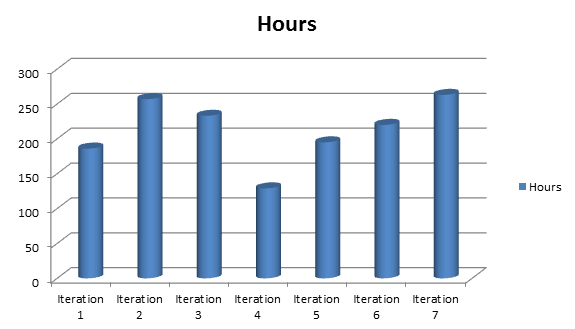
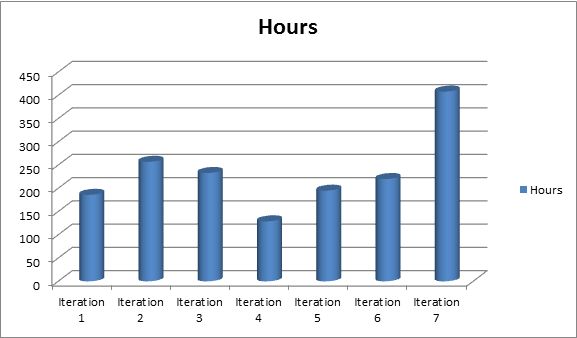
updated work hour chart

diff --git a/section/evaluation.tex b/section/evaluation.tex
@@ -63,7 +63,7 @@ This chapter covers the evaluation of the final product, the process model and w
 		\hline
 			Iteration 6 (Week 16-17) & 248.5 hours\\
 		\hline
-			Iteration 7 (Week 18-19) & 263 hours\\
+			Iteration 7 (Week 18-19) & 408 hours\\
 		\hline
 	\end{tabular}
 	\end{table}
